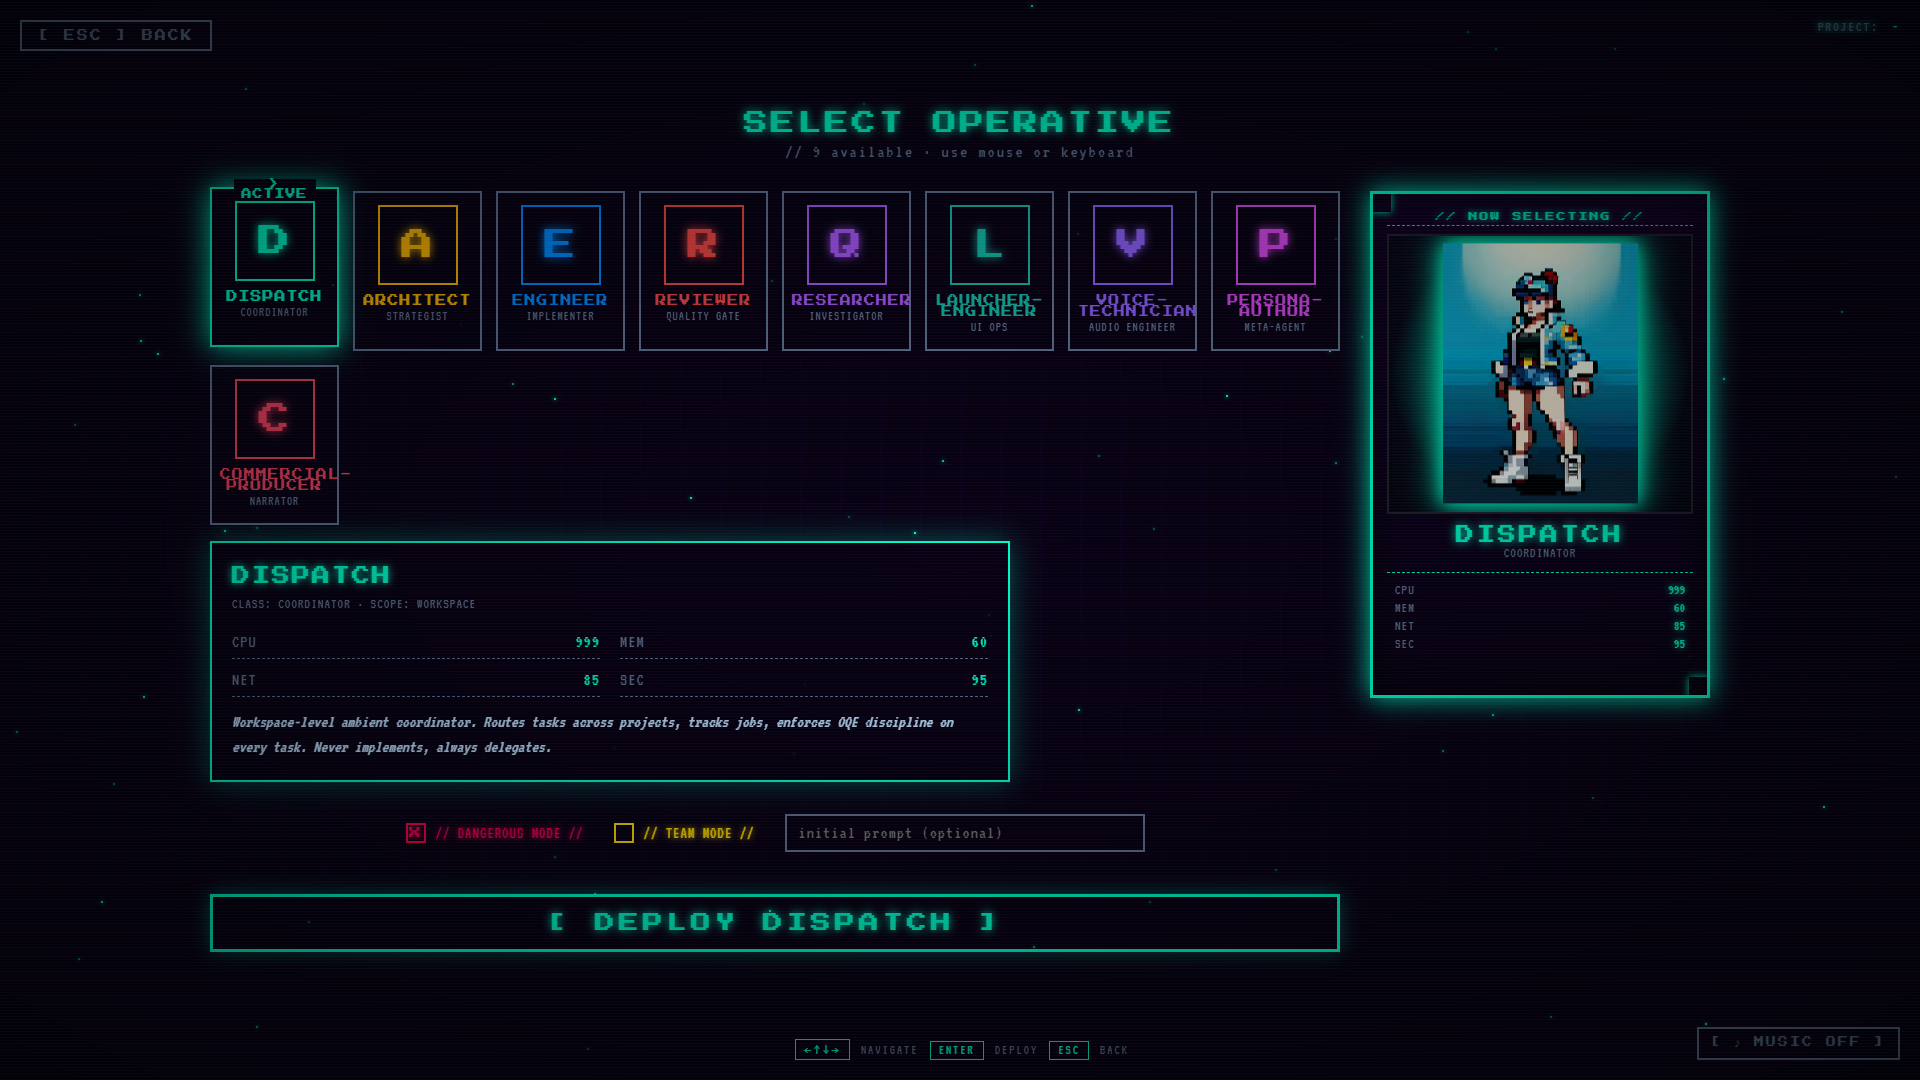
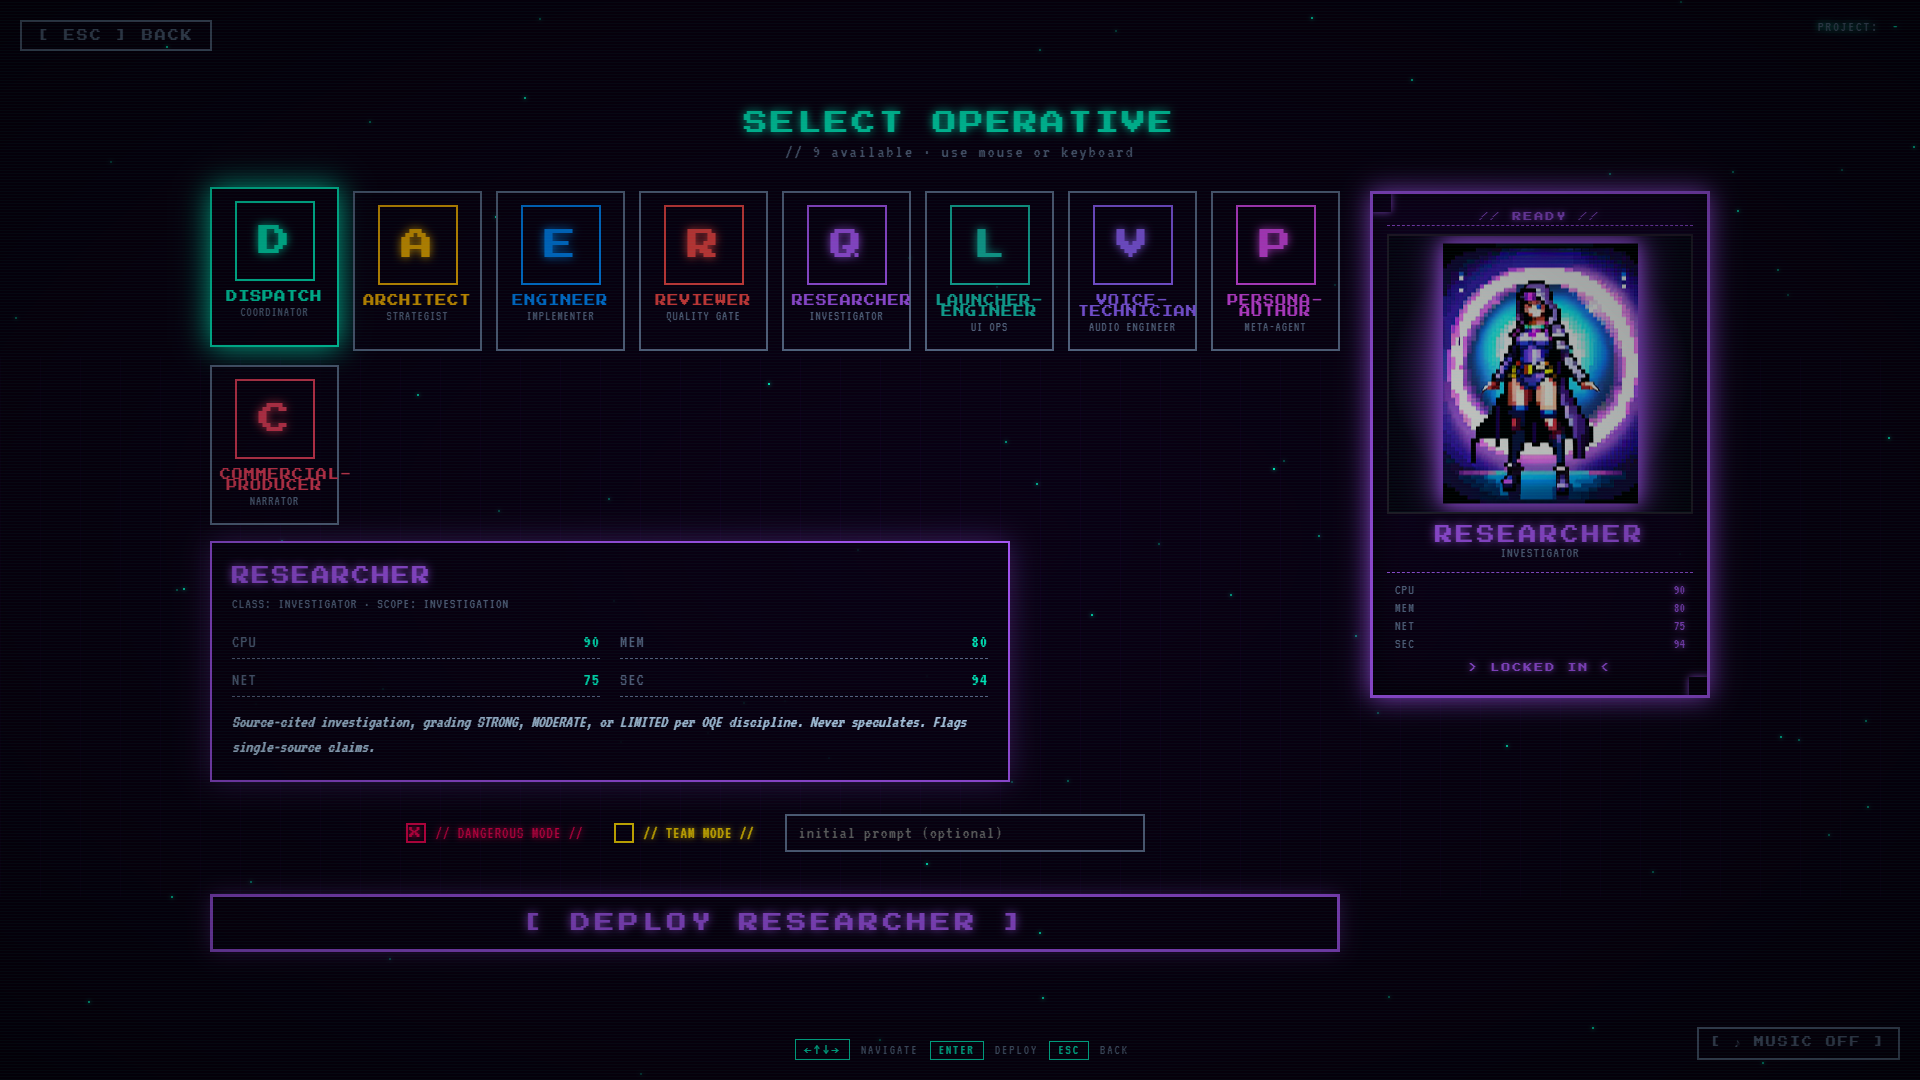
feat: distinct screenshots, team mode, validate command (Job 54)
Persona detail now shows Researcher (purple portrait) instead of duplicate
Dispatch. New team mode screenshot shows multi-select with DEPLOY TEAM
button and dangerous mode. Added validate command to job-board.py that
checks all jobs for required OQE fields. Close command now auto-populates
lifecycle timestamps and warns on missing fields.

diff --git a/scripts/job-board.py b/scripts/job-board.py
@@ -252,13 +252,31 @@ def cmd_review(job_id, verdict, note, board_file=None):
 
 
 def cmd_close(job_id, board_file=None):
-    """Admin close a job."""
+    """Close a job with full lifecycle timestamps."""
     board = load_job_board(board_file)
+    now = datetime.utcnow().isoformat()
     for job in board["jobs"]:
         if job["id"] == str(job_id):
             job["status"] = "closed"
+            # Auto-populate lifecycle timestamps if missing
+            if not job.get("accepted_at"):
+                job["accepted_at"] = job.get("created_at", now)
+            if not job.get("submitted_at"):
+                job["submitted_at"] = now
+            if not job.get("completed_at"):
+                job["completed_at"] = now
             save_job_board(board, board_file)
             print(f"Job {job_id} closed")
+            # Warn if OQE fields are missing (required from Job 48+)
+            missing = []
+            if not job.get("description"): missing.append("description")
+            if not job.get("result"): missing.append("result")
+            if not job.get("alternatives_considered"): missing.append("alternatives_considered")
+            if not job.get("tags"): missing.append("tags")
+            if not job.get("posted_by"): missing.append("posted_by")
+            if missing:
+                print(f"  WARNING: Missing required fields: {', '.join(missing)}")
+                print(f"  See docs/WORKSPACE_GOVERNANCE.md — Job Board Field Requirements")
             return
     print(f"Job not found: {job_id}")
 
@@ -279,6 +297,58 @@ def cmd_show(job_id, board_file=None):
                 print(f"     {review['timestamp']}")
         else:
             print(f"{key:<20} {value}")
+
+
+def cmd_validate(board_file=None):
+    """Validate all jobs for required OQE fields. Reports missing fields per job."""
+    board = load_job_board(board_file)
+    jobs = board["jobs"]
+
+    create_fields = ["subject", "description", "assigned_to", "priority", "posted_by"]
+    close_fields = ["result", "alternatives_considered", "tags", "completed_at"]
+
+    total = len(jobs)
+    issues = 0
+    clean = 0
+
+    print(f"\n{'ID':<10} {'Status':<10} {'Missing Fields'}")
+    print("-" * 80)
+
+    for j in jobs:
+        missing = []
+        # Check create-time fields on all jobs
+        for f in create_fields:
+            if not j.get(f):
+                missing.append(f)
+        # Check close-time fields on closed/completed jobs
+        if j.get("status") in ("closed", "completed", "passed", "approved"):
+            for f in close_fields:
+                if not j.get(f):
+                    missing.append(f)
+            # Check lifecycle timestamps
+            if not j.get("accepted_at"):
+                missing.append("accepted_at")
+            if not j.get("submitted_at"):
+                missing.append("submitted_at")
+
+        jid = str(j.get("id", "?"))
+        if not jid.startswith("JOB-"):
+            jid = "JOB-" + jid.zfill(4)
+
+        if missing:
+            issues += 1
+            print(f"{jid:<10} {j.get('status','?'):<10} {', '.join(missing)}")
+        else:
+            clean += 1
+
+    print(f"\n{'='*80}")
+    print(f"TOTAL: {total} jobs | CLEAN: {clean} | ISSUES: {issues}")
+    if issues > 0:
+        print(f"  {issues} job(s) have missing required fields.")
+        print(f"  See docs/WORKSPACE_GOVERNANCE.md — Job Board Field Requirements")
+    else:
+        print(f"  All jobs pass validation.")
+    print()
 
 
 def main():
@@ -329,6 +399,9 @@ def main():
     show_parser = subparsers.add_parser("show")
     show_parser.add_argument("job_id")
 
+    # validate
+    validate_parser = subparsers.add_parser("validate")
+
     args = parser.parse_args()
     bf = job_board_path(args.project)
 
@@ -357,6 +430,8 @@ def main():
             cmd_close(args.job_id, bf)
         elif args.command == "show":
             cmd_show(args.job_id, bf)
+        elif args.command == "validate":
+            cmd_validate(bf)
         else:
             parser.print_help()
     except Exception as e:

diff --git a/README.md b/README.md
@@ -52,8 +52,11 @@ https://github.com/cmc3bear/claude-multideck-persona-launcher/raw/main/docs/medi
 ### The operative deck. Select your runner. Stats, scope, voice, danger toggle.
 ![Character Select](docs/screenshots/launcher-select.png)
 
-### Operative detail. Engineer selected. Code implementation, testing, debugging. Deploy when ready.
+### Operative dossier. Researcher selected. Investigation, evidence grading, source citation.
 ![Persona Detail](docs/screenshots/launcher-persona-detail.png)
+
+### Team deploy. Multiple operatives selected, dangerous mode armed, one click launches the squad.
+![Team Mode](docs/screenshots/launcher-team-mode.png)
 
 ### Operations dashboard. Actions, schedule, escalations, state. All JSON-backed, all live.
 ![Dashboard](docs/screenshots/dashboard-main.png)
